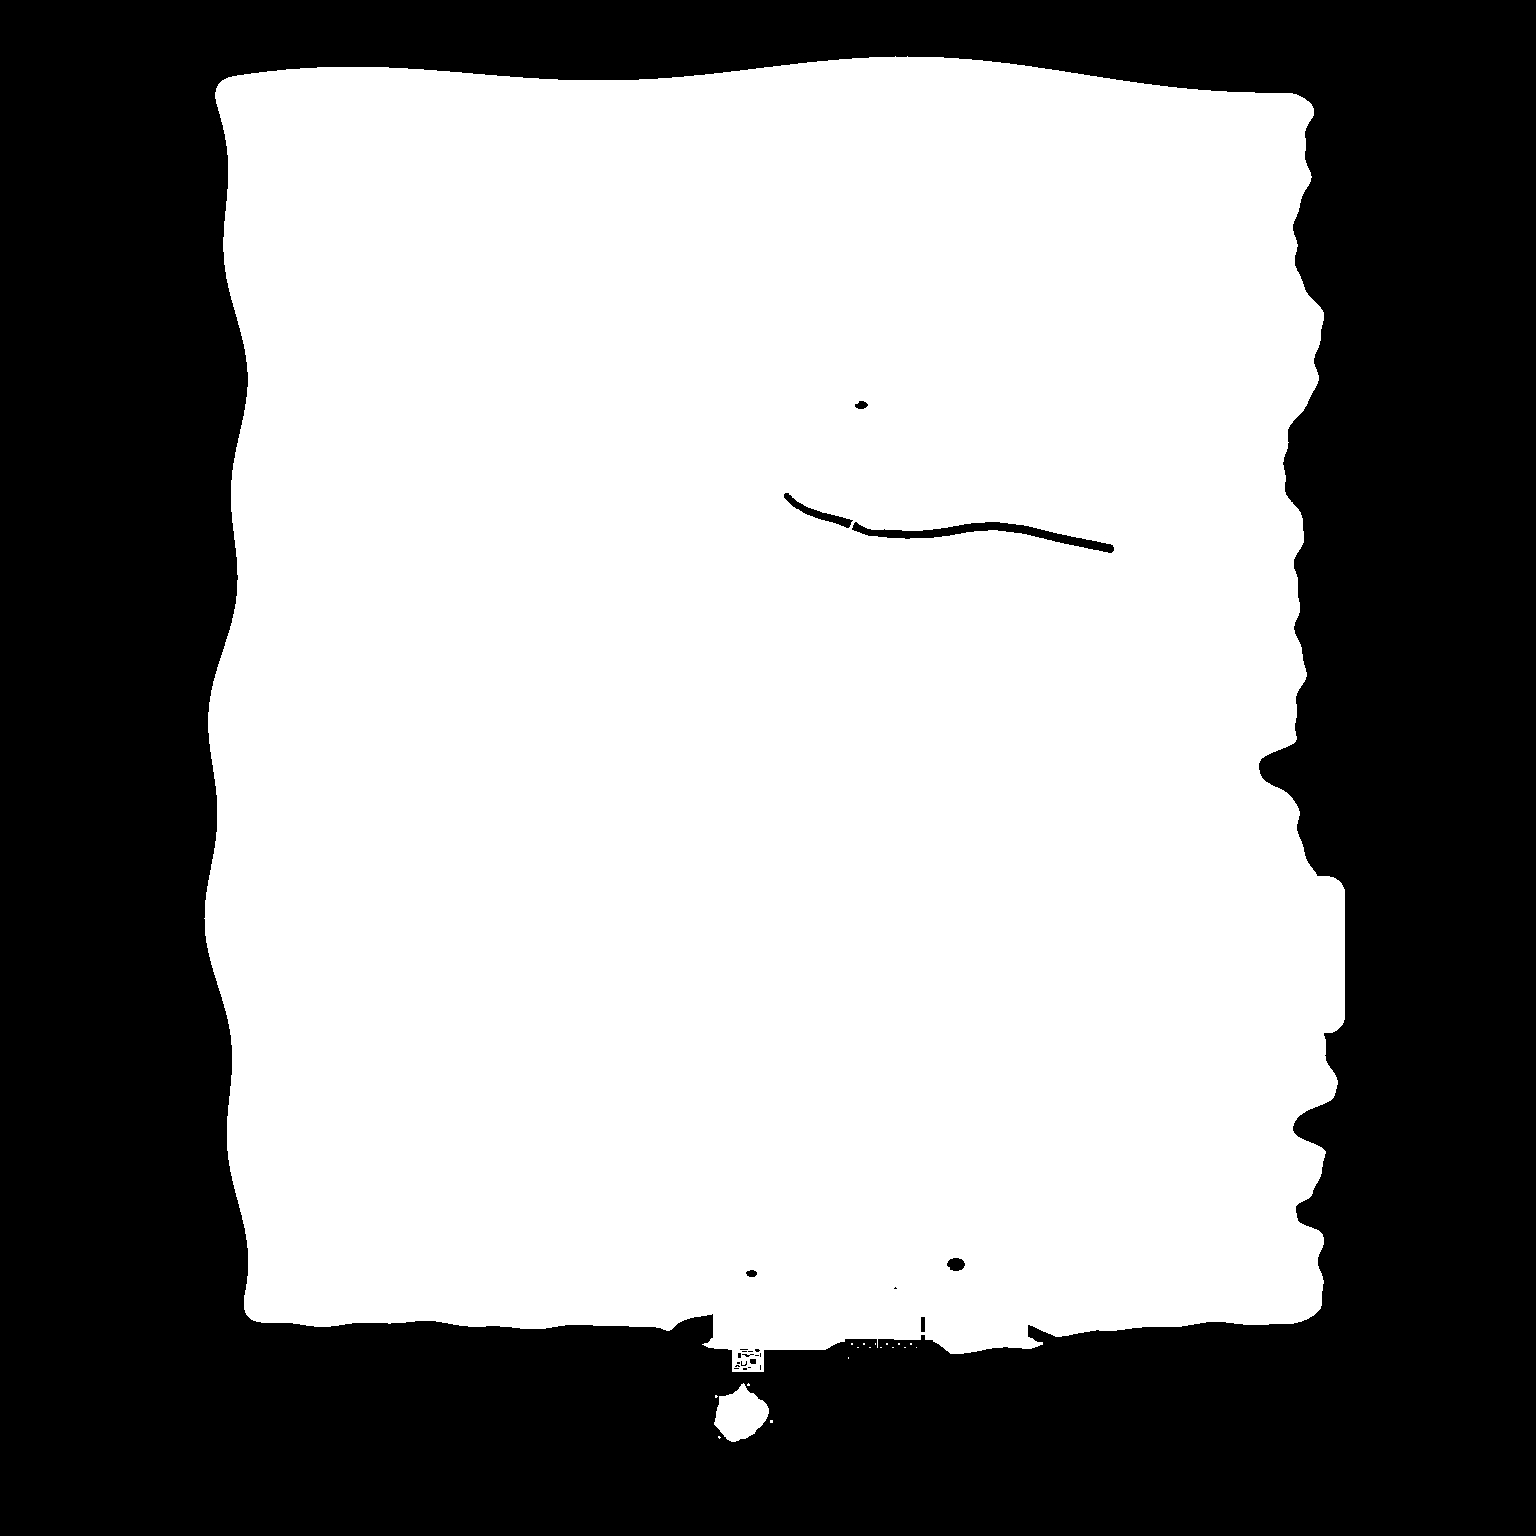
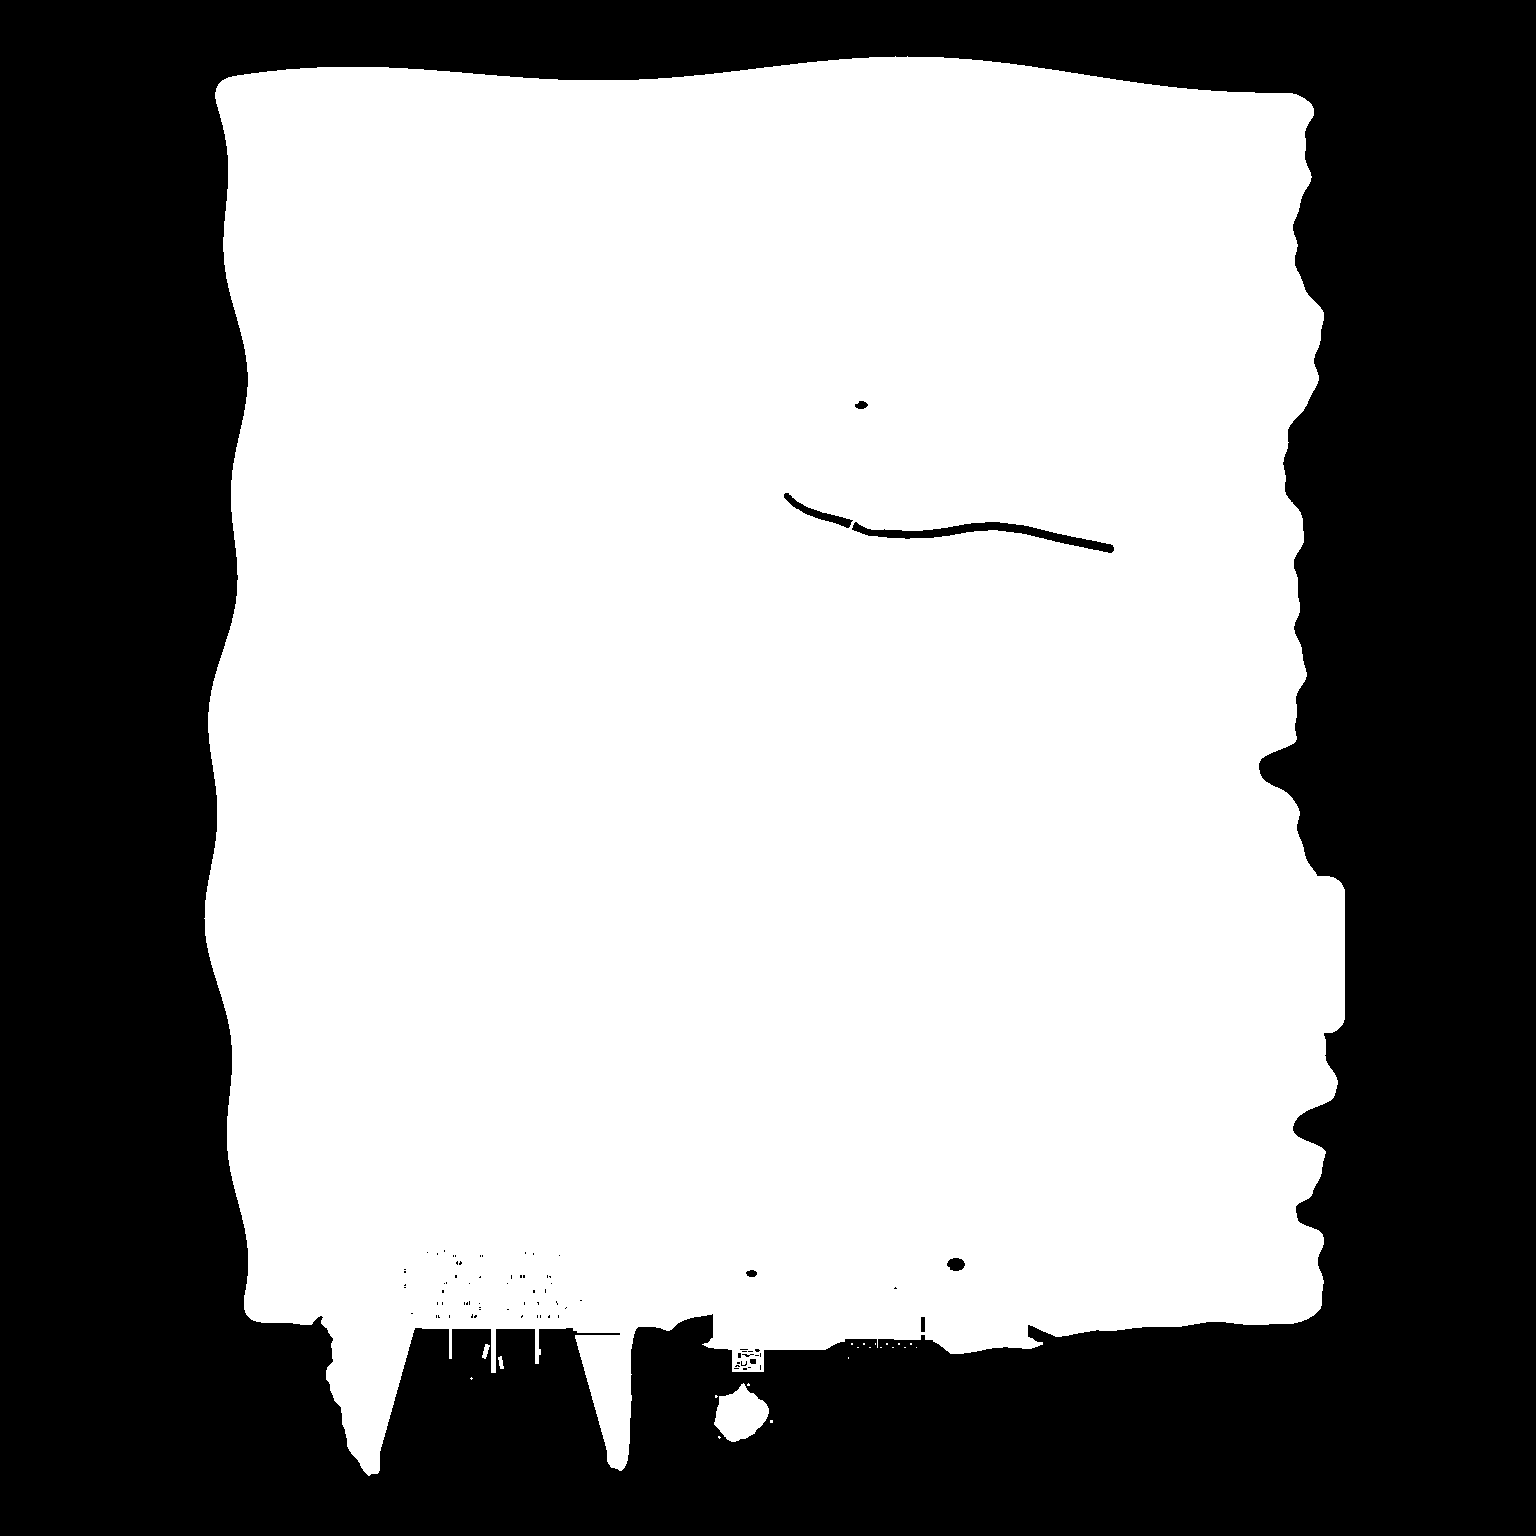
Repaint the world and Brinecove atlas frames for the new geography
Brinecove's layout changed the terrain signature, so all nine coast masks are
regenerated from fresh reference plans. The world painting predates the cove
and Brinecove's earlier painting failed the coast check; both are repainted
with their coast masks (one ledgered call each, plus one Brinecove retry after
the scene prompt stopped asking for ships and sea stacks on reference water).
The seven other regional paintings pass unchanged and record current-terrain
revalidation.

Changed region(s): [[0.1875, 0.8438, 0.3125, 0.9688], [0.375, 0.8438, 0.4375, 0.9688], [0.3125, 0.875, 0.3438, 0.9062]]

diff --git a/games/yorimichi/world/map/paint_atlas.py b/games/yorimichi/world/map/paint_atlas.py
@@ -19,7 +19,7 @@ SCENES = {
     'temple_island': 'A small rocky forested temple islet in the turquoise sea, with a sheltered landing, winding stone stair and summit shrine. Preserve the exact island outline, trail and temple roof footprint.',
     'northern_foothills': 'Wooded mountain foothills with the precisely drawn canyon skate park, winding access trails, racecourse and the lower slopes of the volcanic highlands. Small structures stay in their exact footprints.',
     'volcanic_highlands': 'A large volcanic massif with an accurately circular caldera seen vertically from above, snowy ridges, dark basalt, conifer slopes and the intricate concrete skate park on its crater floor. Preserve the exact railway alignment and every rail curve; keep sea and land exactly as the plan and mask show.',
-    'brinecove': 'A sheltered pirate cove opening south onto the turquoise sea: a horseshoe harbour with timber piers, moored galleons and a shipyard slip, a cobbled market square, a waterfront of colourful plastered houses climbing in terraces up the hill, a watchtower on the ridge, a red-and-white lighthouse on the western headland, a statue on a rocky islet, sea stacks, and a river gorge with a two-tier waterfall on the eastern headland. Tropical jungle and palms on the headlands. Preserve the exact cove outline, piers, streets and roof footprints.',
+    'brinecove': 'A sheltered pirate cove opening south onto the turquoise sea: a horseshoe harbour with timber piers and a shipyard slip, a cobbled market square, a waterfront of colourful plastered houses climbing in terraces up the hill, a watchtower on the ridge, a red-and-white lighthouse on the western headland, and a river gorge with a two-tier waterfall on the eastern headland. Tropical jungle and palms on the headlands. Preserve the exact cove outline, piers, streets and roof footprints. All water stays open sea: no ships, boats, rocks or islets anywhere outside the land of the mask; the game draws its moored galleons and sea stacks itself.',
     'haras_valley': 'Lush equestrian countryside around a terracotta-roofed river town. Preserve the exact oval racecourse, training arenas, seven estate/stable compounds, hedged pastures, river, stone bridge and curving railway. Fine olive tree crowns, honey-coloured tracks and green meadows.',
 }
 
